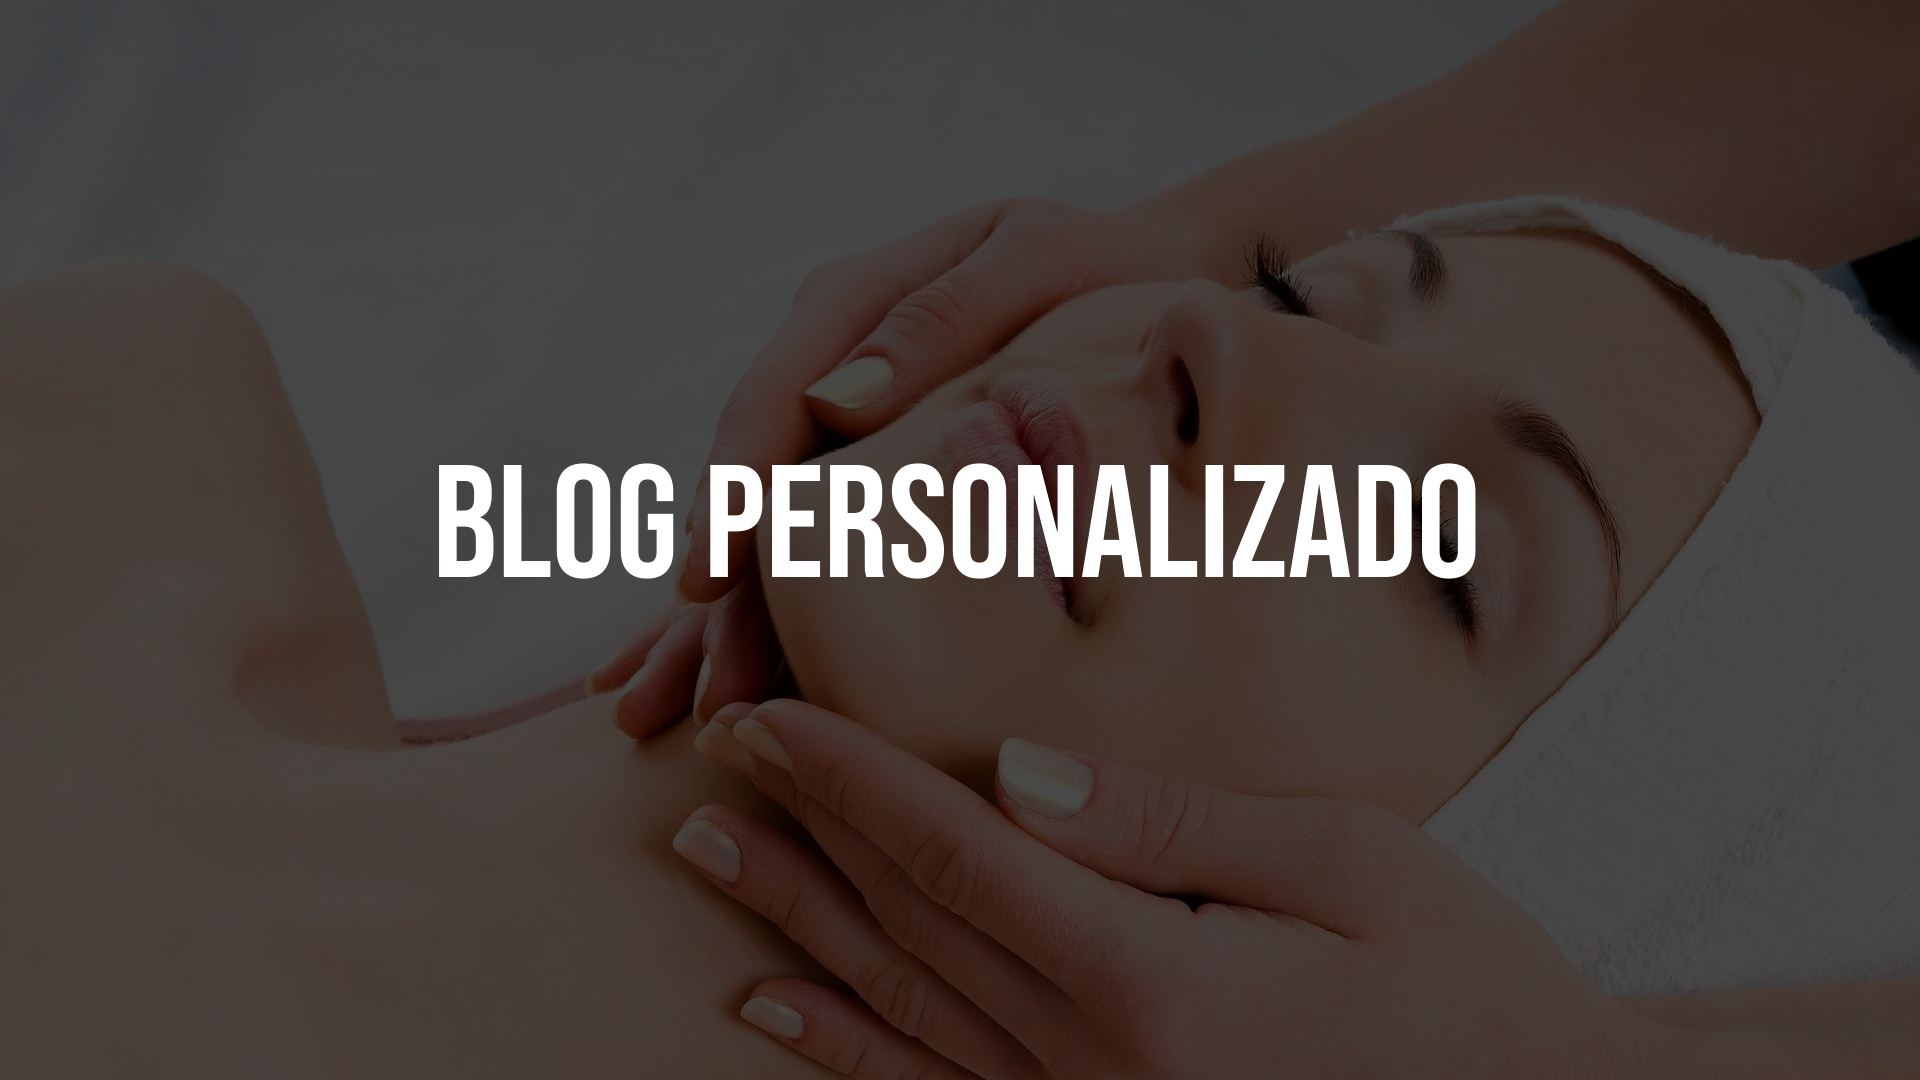
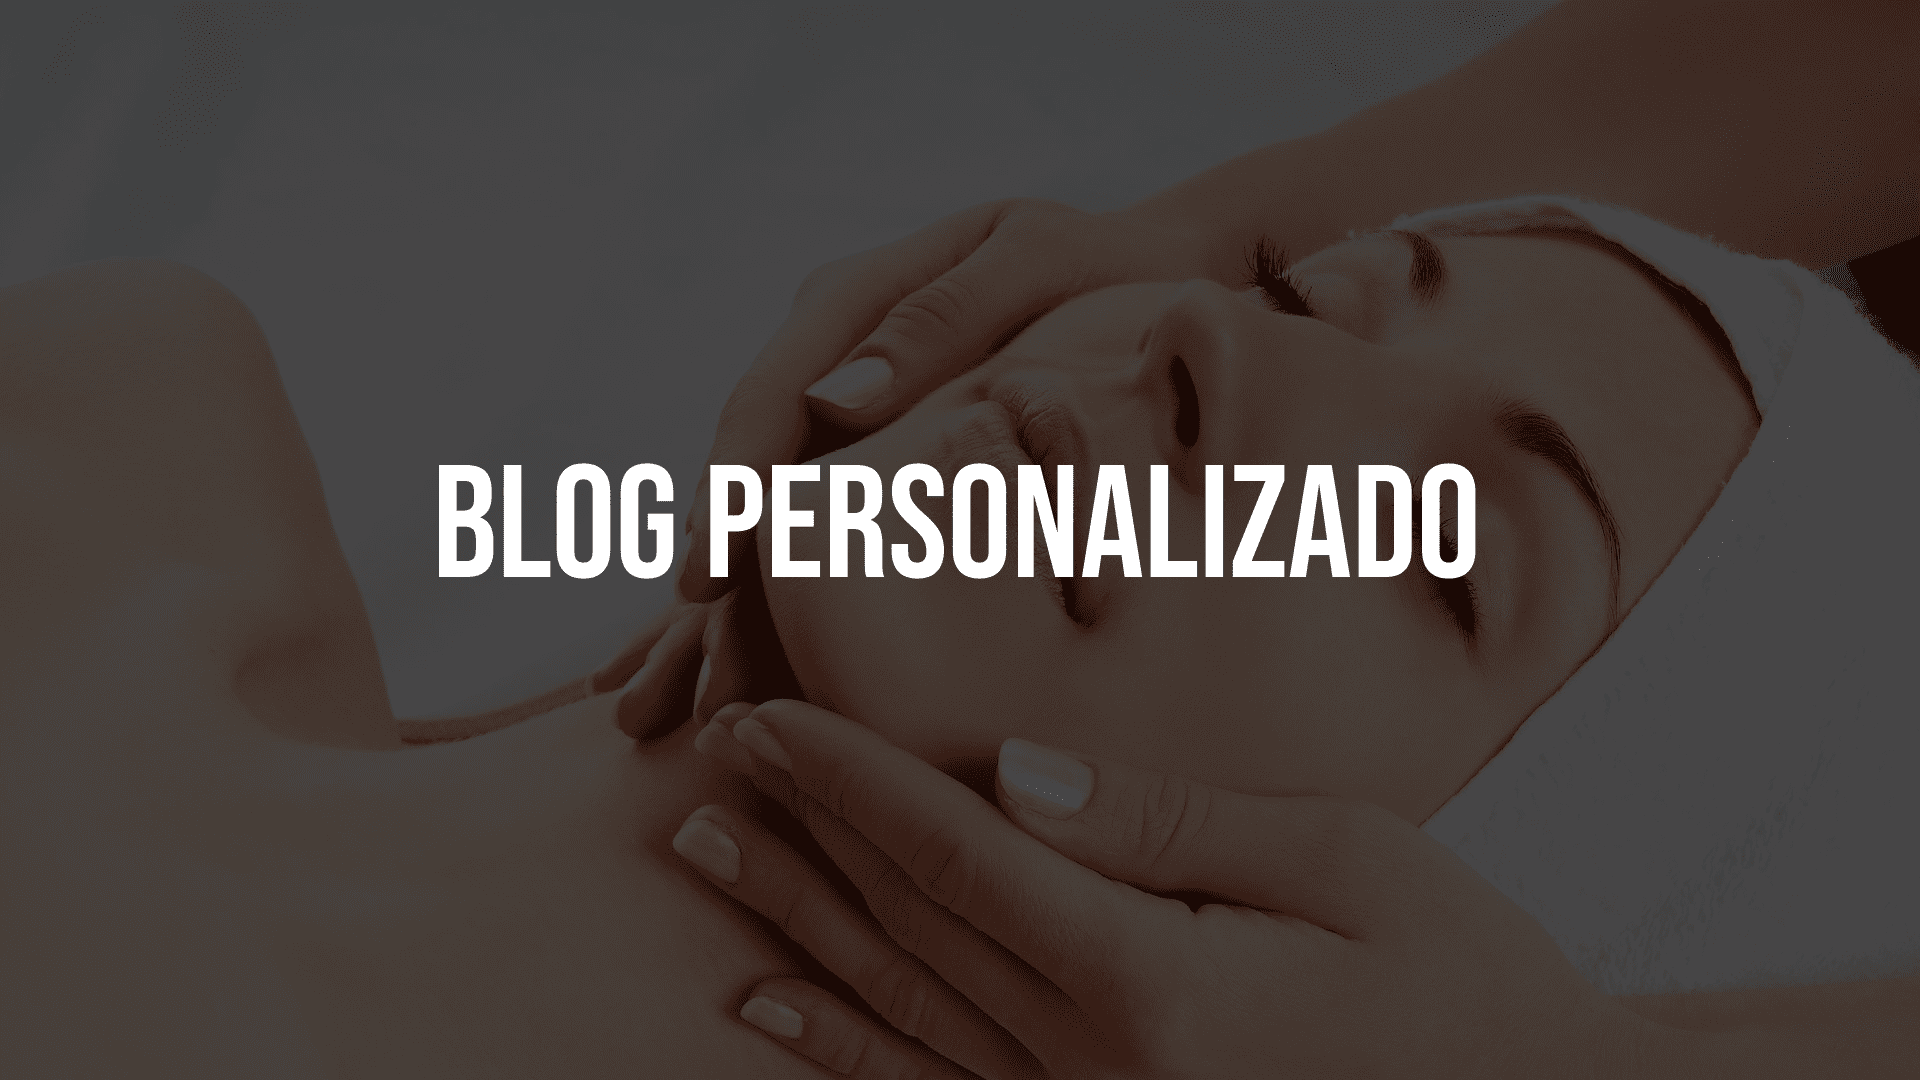
testando carousel

Changed region(s): [[0.9375, 0.1833, 1.0, 0.3361], [0.75, 0.0, 0.7812, 0.0306]]

diff --git a/src/components/carousel/Carousel.js b/src/components/carousel/Carousel.js
@@ -2,11 +2,9 @@
 import Carousel from 'react-material-ui-carousel'
 import Image from 'next/image'
 
-
-
-import SitesCorporativos from '../../../public/images/sitescorporativos.avif'
-import Estetica from '../../../public/images/estetica.avif'
-import LojaOnline from '../../../public/images/lojaonline.avif'
+import SitesCorporativos from '../../../public/images/sitescorporativos.png'
+import Estetica from '../../../public/images/estetica.png'
+import LojaOnline from '../../../public/images/lojaonline.png'
 import { Box } from '@mui/material'
 import styled from 'styled-components'
 
@@ -42,6 +40,7 @@ function SlideCarousel() {
           <CardSlide >
 
             <Image src={SitesCorporativos}
+
              style={{ width: '100%', height: '100%', objectFit: 'cover' }} alt='sitescorporativos' />
 
           </CardSlide>
@@ -49,6 +48,7 @@ function SlideCarousel() {
           <CardSlide >
 
             <Image src={Estetica} 
+
             style={{ width: '100%', height: '100%', objectFit: 'cover' }} alt='estetica' />
 
           </CardSlide>
@@ -56,6 +56,7 @@ function SlideCarousel() {
           <CardSlide >
 
             <Image src={LojaOnline} 
+
             style={{ width: '100%', height: '100%', objectFit: 'cover' }} alt='lojaonline' />
 
           </CardSlide>
